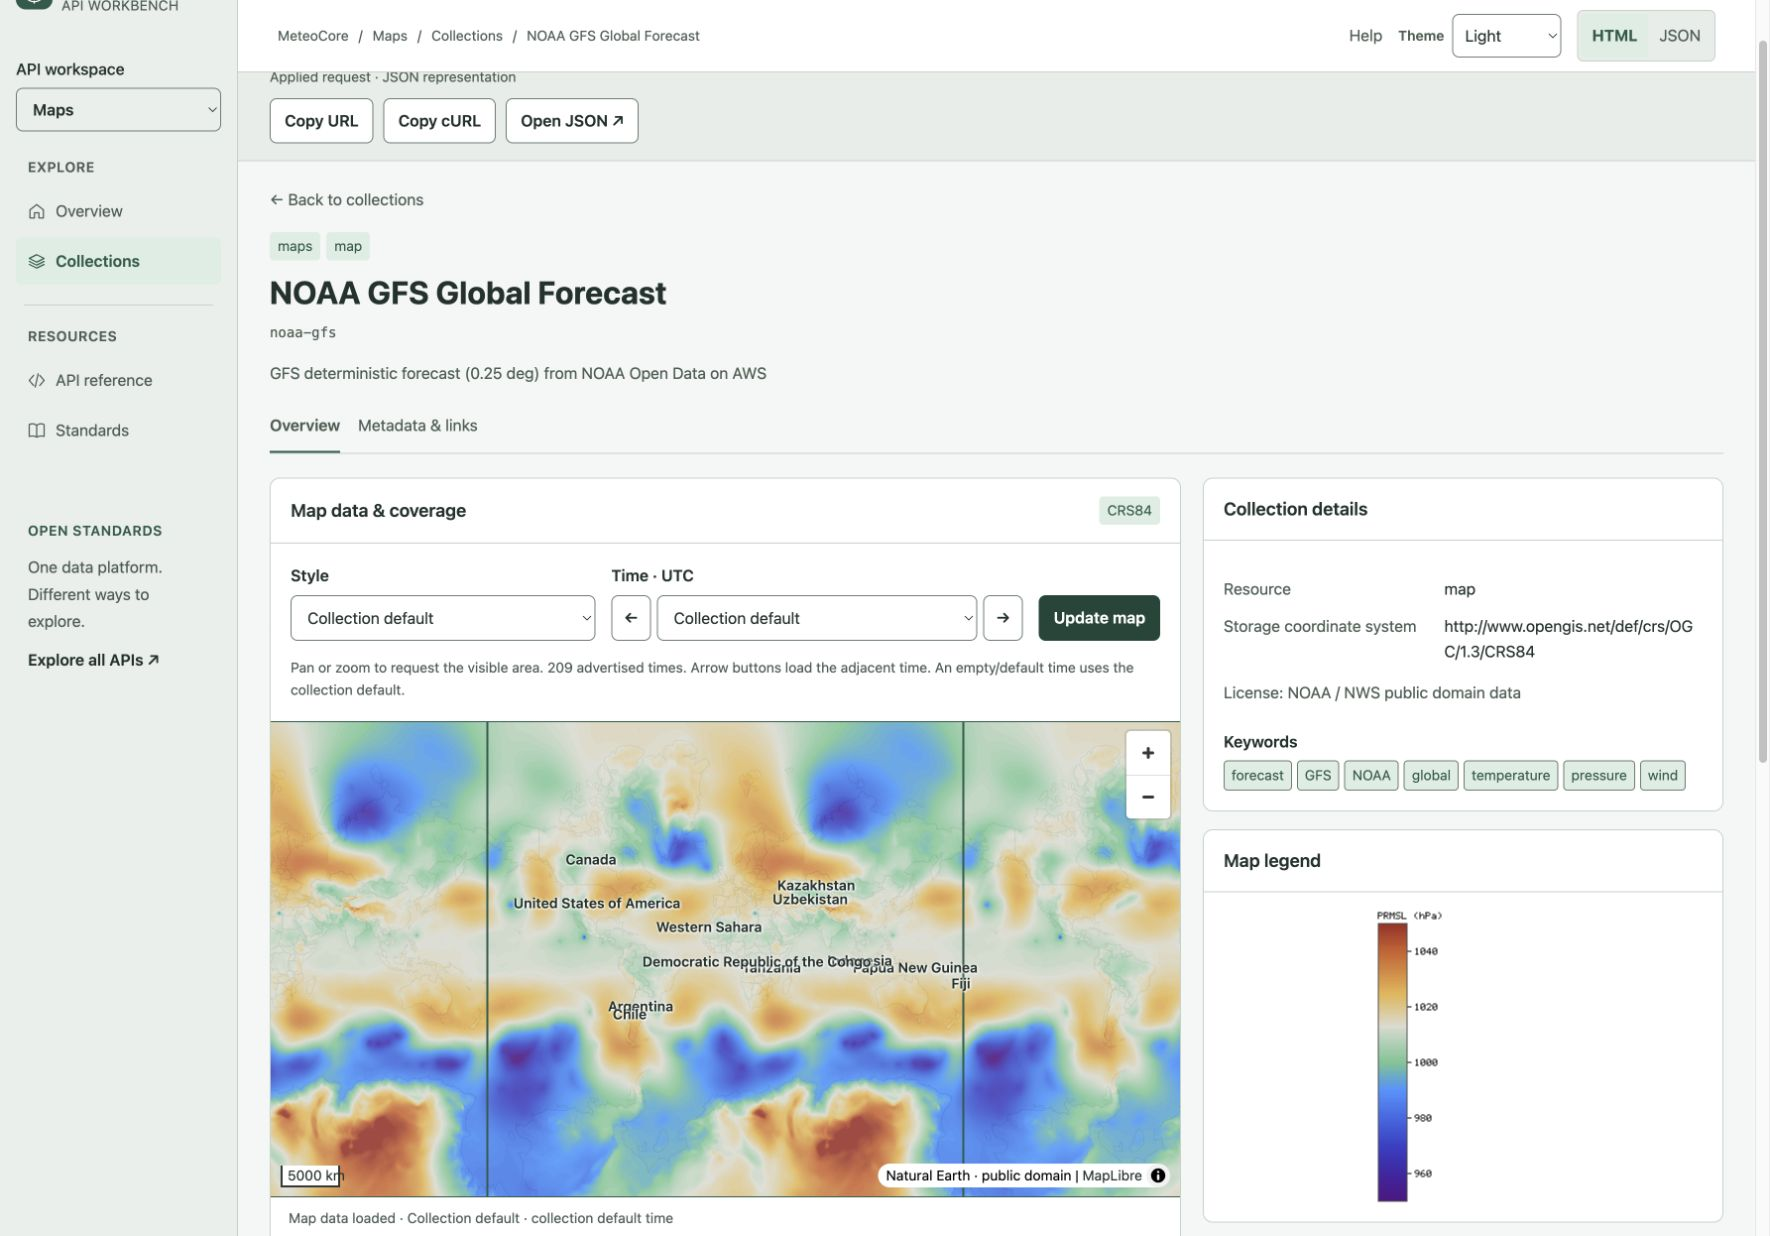
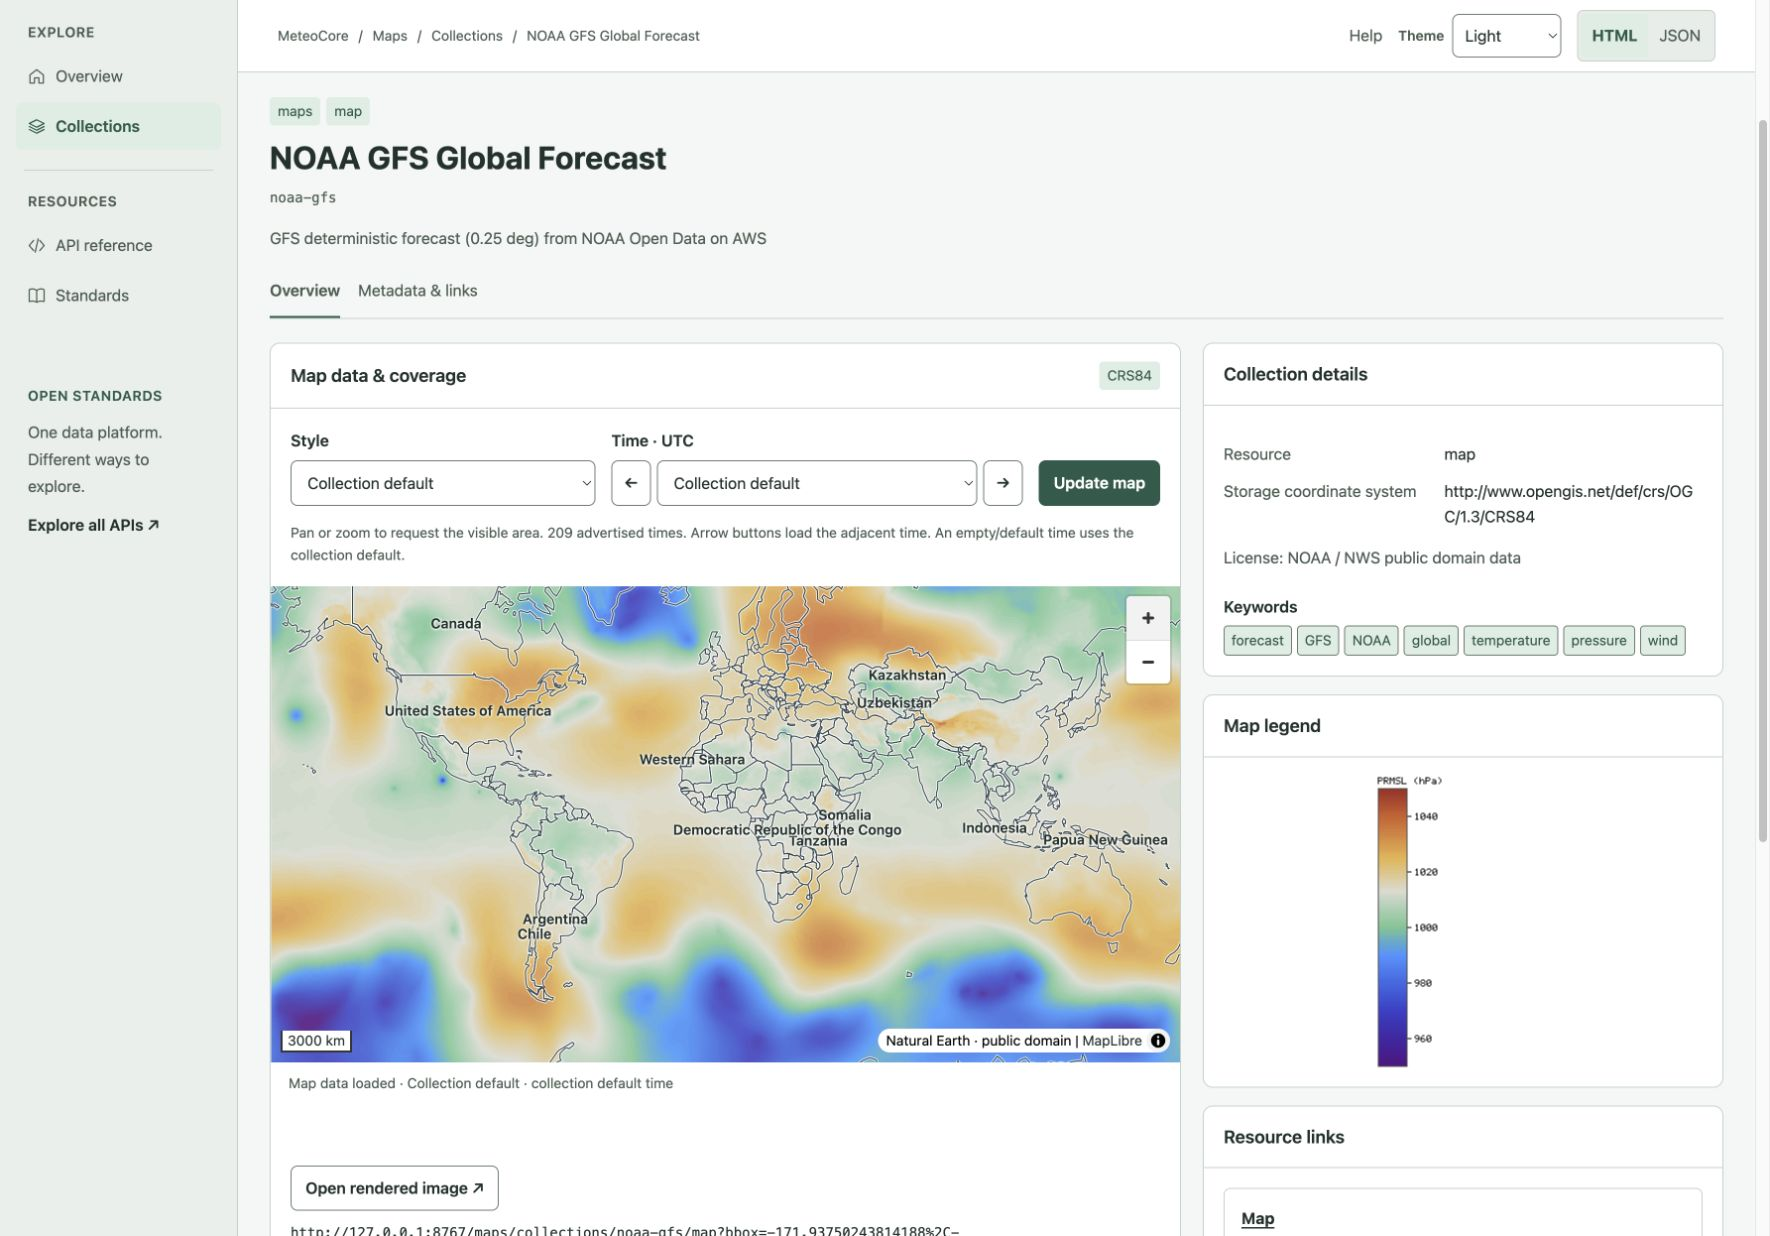
Fix resource links, foreground borders and search disclosure state

diff --git a/crates/api-common/src/workbench/map.js b/crates/api-common/src/workbench/map.js
@@ -184,7 +184,7 @@
           };
           staged = {id:nextId,onRender};
           map.addSource(nextId,{type:'canvas',canvas,coordinates,animate:false});
-          map.addLayer({id:nextId,type:'raster',source:nextId,paint:{'raster-opacity':0,'raster-fade-duration':0}},'outlines');
+          map.addLayer({id:nextId,type:'raster',source:nextId,paint:{'raster-opacity':0,'raster-fade-duration':0}},map.getLayer('border-halo') ? 'border-halo' : 'outlines');
           map.on('render',onRender); map.triggerRepaint();
         } catch (error) {
           if (current !== generation) return;
@@ -255,7 +255,10 @@
         const land = await response.json();
         map.addSource('land',{type:'geojson',data:land,attribution:'Natural Earth · public domain'});
         map.addLayer({id:'land',type:'fill',source:'land',paint:{'fill-color':palette().land}},'areas');
-        map.addLayer({id:'borders',type:'line',source:'land',paint:{'line-color':palette().border,'line-width':0.8}},'areas');
+        // Keep borders above every replacement raster, with a light halo so
+        // boundaries remain visible over both dark and bright weather colors.
+        map.addLayer({id:'border-halo',type:'line',source:'land',paint:{'line-color':'#ffffff','line-width':3,'line-opacity':0.75}},'outlines');
+        map.addLayer({id:'borders',type:'line',source:'land',paint:{'line-color':'#29434b','line-width':1}},'outlines');
         const labels=[];
         function labelCountries() {
           labels.forEach(marker=>marker.remove()); labels.length=0;

diff --git a/crates/api-common/src/workbench/app.js b/crates/api-common/src/workbench/app.js
@@ -56,6 +56,18 @@
   }
   document.querySelectorAll('[data-copy]').forEach(button => button.addEventListener('click', () => copy(button.dataset.copy)));
 
+  // Disclosure state is a UI preference, never an API query parameter.
+  document.querySelectorAll('[data-disclosure="collection-search"]').forEach(details => {
+    const form = details.closest('form');
+    const key = 'meteocore-search-disclosure:' + new URL(form.action,location.href).pathname;
+    try { details.open = sessionStorage.getItem(key) === 'open'; } catch (_) {}
+    const remember = () => {
+      try { sessionStorage.setItem(key,details.open ? 'open' : 'closed'); } catch (_) {}
+    };
+    details.addEventListener('toggle',remember);
+    form.addEventListener('submit',remember);
+  });
+
   document.querySelectorAll('.query-form').forEach(form => {
     const fields = form.querySelectorAll('[data-param]');
     const update = () => {

diff --git a/crates/api-common/src/workbench/style.css b/crates/api-common/src/workbench/style.css
@@ -2600,3 +2600,6 @@ a {
 .map-legend{height:332px;padding:16px;box-sizing:border-box;display:flex;align-items:center;justify-content:center;overflow:auto;font-size:14px;color:var(--muted)}
 .map-legend img{display:block;max-width:100%;height:auto}
 .map-legend [hidden]{display:none}
+
+.resource-title{display:block;text-decoration:underline;text-underline-offset:3px}
+.resource-title code{color:inherit}

diff --git a/crates/api-common/src/workbench.rs b/crates/api-common/src/workbench.rs
@@ -299,10 +299,6 @@ pub fn document_links(doc: &Value) -> String {
                 continue;
             }
             let label = link["title"].as_str().unwrap_or(rel);
-            if rel == "map" {
-                body.push_str(&format!("<div class=\"endpoint\"><div><strong>{}</strong><code>{}</code><p>Image endpoint · requires bbox. Use the map controls or API reference.</p></div></div>",escape(label),escape(href)));
-                continue;
-            }
             let human = matches!(rel, "data" | "child" | "collection" | "conformance" | "up")
                 || rel == "items" && href.contains("/features/");
             let target = if human {
@@ -311,11 +307,13 @@ pub fn document_links(doc: &Value) -> String {
                 href.to_owned()
             };
             body.push_str(&format!(
-                "<div class=\"endpoint\"><div>{}<code>{}</code><p>{} · {}</p></div></div>",
-                anchor(&target, label, "resource-title"),
+                "<div class=\"endpoint\"><div><a class=\"resource-title\" href=\"{}\"><strong>{}</strong><code>{}</code></a><p>{} · {}{}</p></div></div>",
+                escape(safe_href(&target)),
+                escape(label),
                 escape(href),
                 escape(rel),
-                escape(link["type"].as_str().unwrap_or("Linked resource"))
+                escape(link["type"].as_str().unwrap_or("Linked resource")),
+                if rel == "map" { " · requires bbox; use the map controls to build a request" } else { "" }
             ));
         }
     }
@@ -829,7 +827,7 @@ pub fn collections_html(
             )
         })
         .collect::<String>();
-    let form=format!("<form class=\"search-panel query-form\" method=\"get\" action=\"{}\"><input type=\"hidden\" name=\"f\" value=\"html\"><div class=\"builder-heading\"><h2>Collection search</h2><span class=\"mono\">GET</span></div>{primary}<details class=\"filters\" open><summary>Advanced search, area and time</summary><div class=\"filters-grid\">{advanced}</div><div class=\"paging-fields\">{paging}</div><div class=\"filter-controls\"><span class=\"field-help\">Collections with unknown extents remain eligible.</span>{}</div></details><div class=\"active-filters\">{chips}</div><div class=\"draft-request enhanced\"><small>Collection search request · submit to update matches</small><code data-draft></code></div><noscript><p>Enable JavaScript to edit advanced parameters.</p></noscript></form>",escape(url),anchor(&with_format(url,"html"),"Clear filters","quiet"));
+    let form=format!("<form class=\"search-panel query-form\" method=\"get\" action=\"{}\"><input type=\"hidden\" name=\"f\" value=\"html\"><div class=\"builder-heading\"><h2>Collection search</h2><span class=\"mono\">GET</span></div>{primary}<details class=\"filters\" data-disclosure=\"collection-search\"><summary>Advanced search, area and time</summary><div class=\"filters-grid\">{advanced}</div><div class=\"paging-fields\">{paging}</div><div class=\"filter-controls\"><span class=\"field-help\">Collections with unknown extents remain eligible.</span>{}</div></details><div class=\"active-filters\">{chips}</div><div class=\"draft-request enhanced\"><small>Collection search request · submit to update matches</small><code data-draft></code></div><noscript><p>Enable JavaScript to edit advanced parameters.</p></noscript></form>",escape(url),anchor(&with_format(url,"html"),"Clear filters","quiet"));
     let mut body = page_heading(
         "Collections",
         "Find datasets by their metadata and coverage. Select a collection to build a data request.",

diff --git a/docs/design/api-workbench/README.md b/docs/design/api-workbench/README.md
@@ -130,9 +130,8 @@ and wind-gust styles explicitly bind their data parameter. NOAA license metadata
 links to the [NWS use conditions](https://www.weather.gov/disclaimer).
 
 The selected style's advertised legend appears beside the map. Its link opens
-the machine-readable legend, including parameter and units. Map endpoint links
-that require `bbox` are labelled as endpoints, rather than opening a known-invalid
-request. The duplicate resource list and unscoped global-preview button were
+the machine-readable legend, including parameter and units. Map endpoint links are clickable and state the required `bbox`; the map
+controls provide a complete image request. The duplicate resource list and unscoped global-preview button were
 removed from the Maps request section. Breadcrumbs prefer collection/item titles.
 
 All serialized metadata fields remain in Metadata & links (including arbitrary
@@ -151,7 +150,7 @@ adding a complete data-request workspace, rather than borrowing EDR-only metadat
 The GFS engine currently selects the first indexed level for an explicit TMP
 parameter (0.01 hPa in the checked NOAA product), rather than guaranteeing 2 m
 temperature. The temperature style is labelled **default level** for this reason.
-GRIB vertical selection remains the existing #185 limitation; pressure and wind
+GRIB vertical selection remains the existing #81 limitation; pressure and wind
 gust provide unambiguous fields for this preview.
 
 Validation after this review: 648 API tests and 7 cross-API discovery contracts
@@ -165,3 +164,18 @@ Legend initialization waits for the full document so a fast/cached map cannot
 race sidebar parsing. Legend images revalidate when selected, avoiding old
 palette images after a configuration reload; unchanged legends stay visible
 through viewport refreshes.
+
+## Navigation and map-overlay follow-up
+
+Resource cards now link both the title and displayed URL as one clickable target.
+Map links retain the bbox requirement hint. Country outlines use a contrasting
+foreground stroke/halo above every raster replacement. Advanced collection search
+starts closed and remembers the user's choice per API path for the session;
+submitting a search does not reopen it or discard active advanced filters.
+
+Browser verification: advanced search was closed on first load, stayed open after
+an open-panel submission, and stayed closed after a close-and-submit. Resource
+URLs were verified as anchors. Clicking Styles was blocked by the Chrome client
+(`ERR_BLOCKED_BY_CLIENT`); its endpoint was checked separately over HTTP. GFS country
+borders remained visible above the rendered image after zooming. The existing
+648 API tests, seven cross-API contracts, clippy and HTTP smoke checks passed.

diff --git a/crates/api-common/README.md b/crates/api-common/README.md
@@ -161,3 +161,9 @@ style legends load with the displayed image; unchanged legends stay visible on
 pan/zoom. Full nested metadata and license links remain in Metadata & links,
 with configured licenses and searchable keywords also in the overview. Missing
 storage CRS is labelled "Not advertised", never guessed from the coverage CRS.
+
+Collection advanced search starts collapsed and remembers its disclosure state
+per API path for the browser session, including after search submission. Applied
+filters remain visible while collapsed. Resource titles and their URLs form one
+clickable link; map endpoints retain their required-bbox hint. Country boundaries
+render above map imagery with a contrasting halo, including after pan/zoom.

diff --git a/docs/ogc-api-common-matrix.md b/docs/ogc-api-common-matrix.md
@@ -320,3 +320,9 @@ grid metadata (regular resolution/count or explicit irregular coordinates); it
 does not infer sampling from an interval or claim new Part 4 conformance. Optional
 metadata remains visible in the metadata tab, including nested extensions,
 vertical coverage, keywords and license links. Storage CRS is not inferred.
+
+Collection advanced search starts collapsed and remembers its disclosure state
+per API path for the browser session, including after search submission. Applied
+filters remain visible while collapsed. Resource titles and their URLs form one
+clickable link; map endpoints retain their required-bbox hint. Country boundaries
+render above map imagery with a contrasting halo, including after pan/zoom.

diff --git a/crates/api-features/README.md b/crates/api-features/README.md
@@ -242,3 +242,6 @@ discovery remains under **Collections → Find collections**.
 HTML breadcrumbs display collection and item titles when available; resource
 URLs continue to use the original IDs. Parent titles are passed from the existing
 collection snapshot, without additional data queries.
+
+Collection advanced search starts closed and retains the user's open/closed
+choice across searches in the browser session. Resource URLs are clickable.

diff --git a/crates/api-edr/README.md b/crates/api-edr/README.md
@@ -201,3 +201,6 @@ for required data-query inputs; collection search is not an EDR data builder.
 
 HTML breadcrumbs use collection titles, including parent collection links on
 model-run lists and individual run metadata pages. IDs remain unchanged in URLs.
+
+Collection advanced search starts closed and retains the user's open/closed
+choice across searches in the browser session. Resource URLs are clickable.
